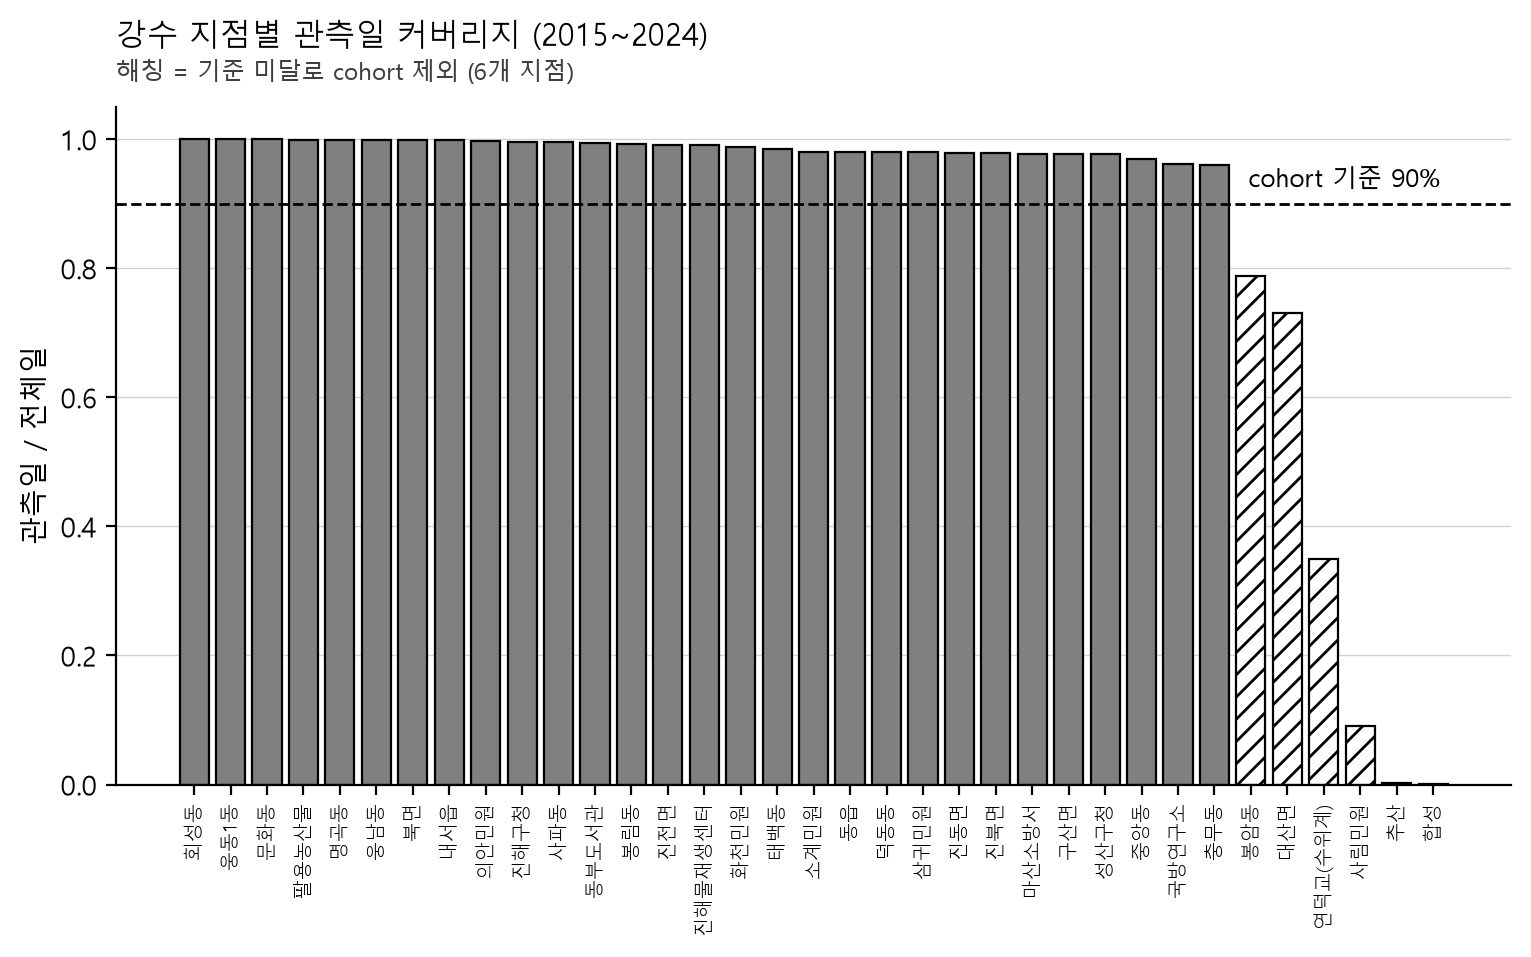
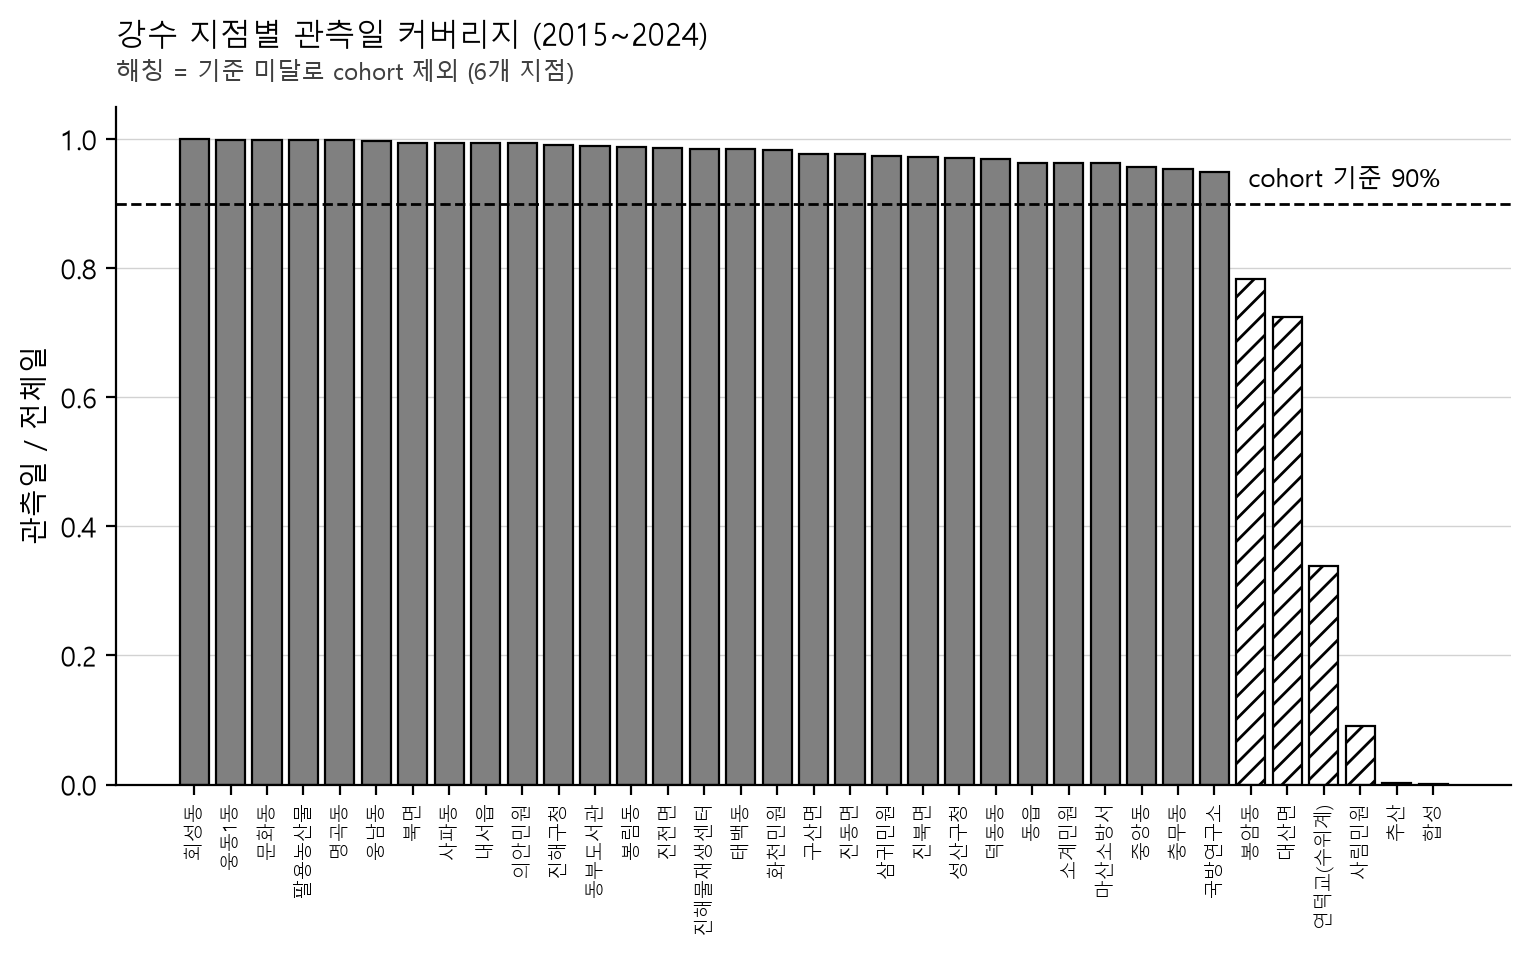
chore: 전체 파이프라인 재실행 — 9/16 결과 재현 확인, run_id 갱신
run_id 20260924T134155Z-9e8c4a7. 분석 노드(h00~h08) 전부 통과, h10 은 미구현 자리표시자.
9/16 산출물 20개와 비교: 19개 바이트·내용 동일, layer1_flood 의 trace_overlap 66칸만 다름
(겹침을 합계→합집합으로 바꾼 의도된 변경, 양성 라벨 변화 0). top20·CDRI·등급 동일.
이 커밋의 변경은 산출물의 run_id 참조와 그림 재렌더링뿐이다.

diff --git a/docs/eda_data_check.md b/docs/eda_data_check.md
@@ -1,6 +1,6 @@
 # 데이터 확인 EDA — 이상 징후
 
-> 생성: `python -m src.pipeline run --only h02_eda_data_check` (run_id `20260822T120934Z-07db975-8830b10b`)
+> 생성: `python -m src.pipeline run --only h02_eda_data_check` (run_id `20260924T134155Z-9e8c4a7-0fe4096d`)
 > **판단** 칸은 사람이 채운다. 데이터원인이면 그 묶음의 수집 노드로,
 > 정제원인이면 해당 정제 노드로 돌아간다 (`config/pipeline.yaml` 의 on_fail).
 
